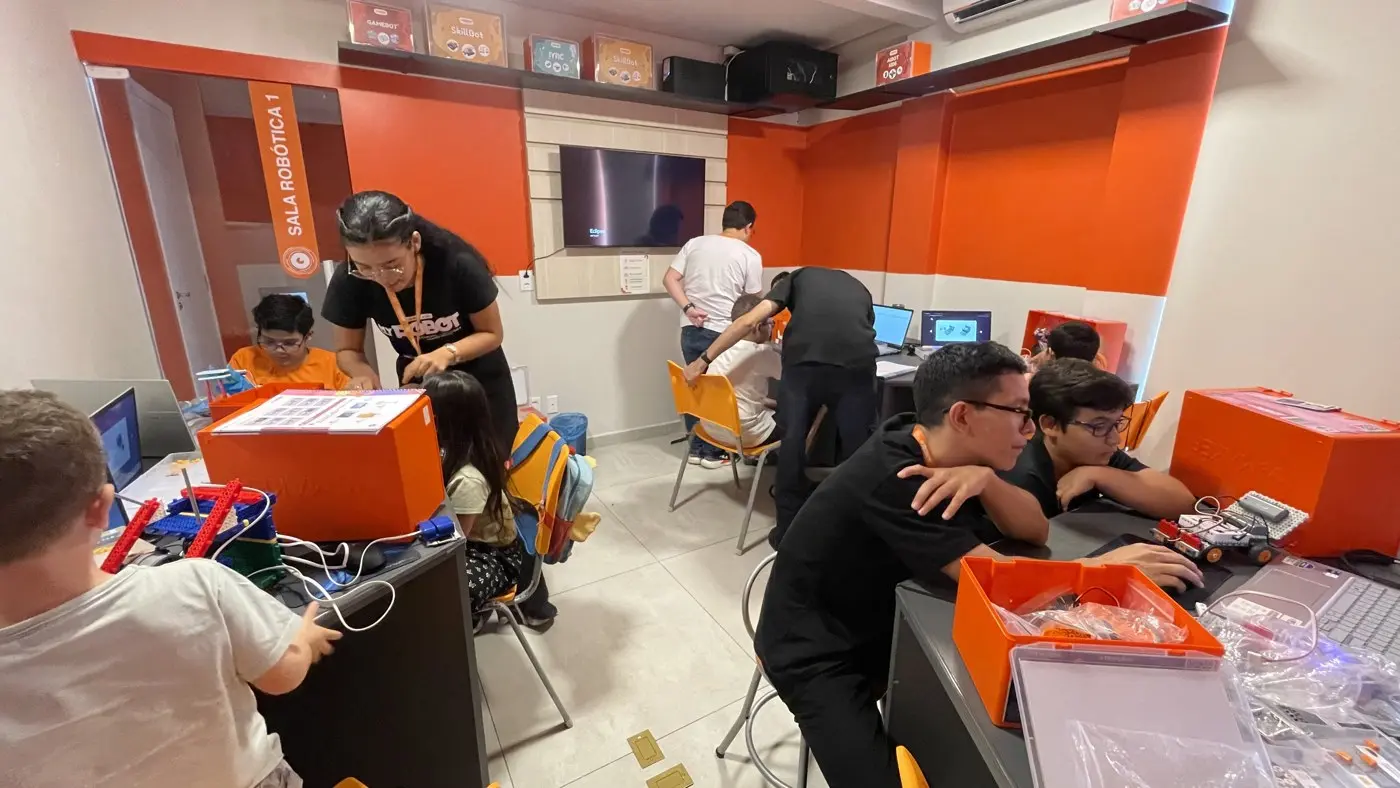
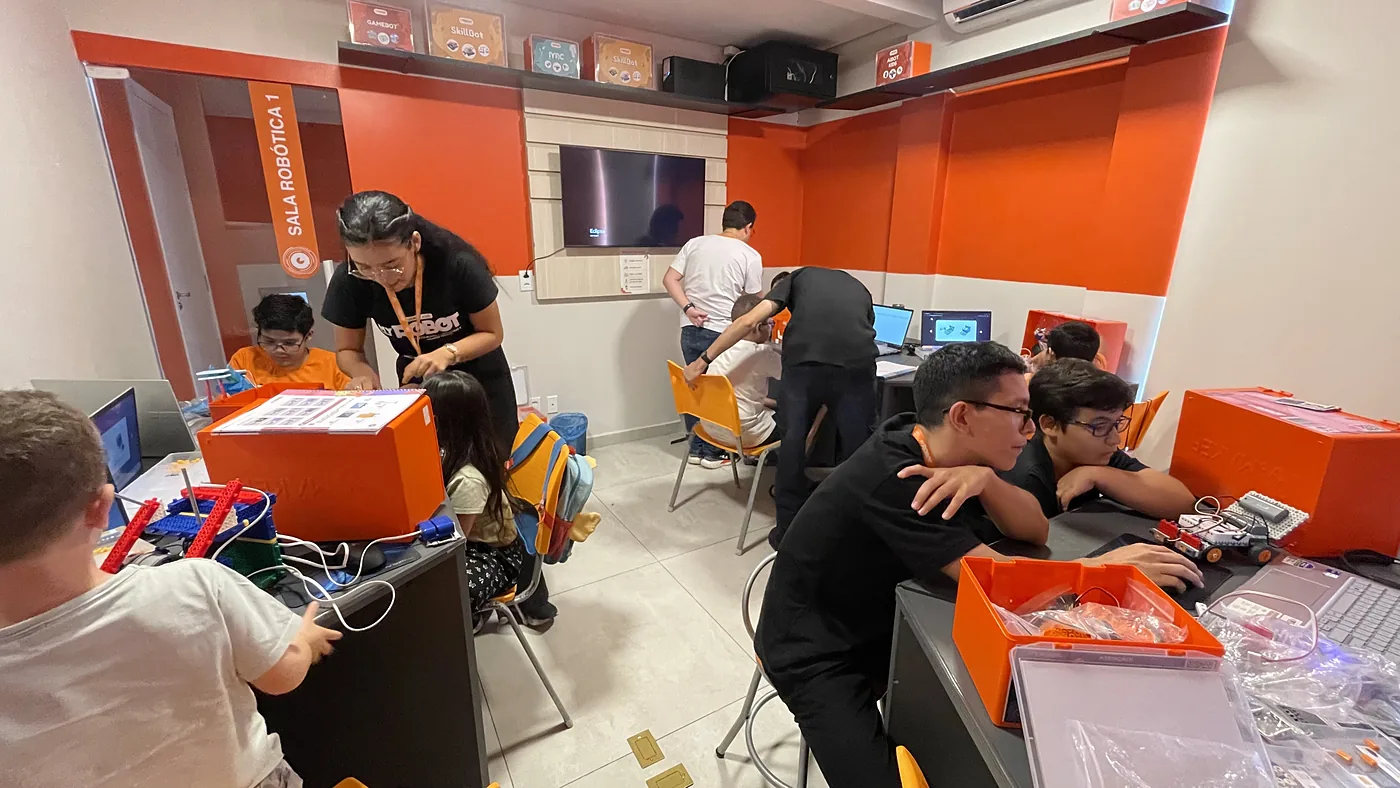
BF: fotos da galeria re-exportadas dos originais em alta resolução (srcset 1x/2x) (#27)
Claude-Session: https://claude.ai/code/session_01TjswJxo8KnA18Yvp363SCs

diff --git a/myrobot-vercel/blackfriday.html b/myrobot-vercel/blackfriday.html
@@ -498,11 +498,11 @@ body{overscroll-behavior-x:none;touch-action:pan-y pinch-zoom}
       <div><i>03</i><b>Atenção de perto</b><span>Turmas pequenas, com instrutores acompanhando cada criança.</span></div>
     </div>
     <div class="galeria">
-      <figure class="g-wide"><img src="/assets/bf/sala.webp" alt="Sala de robótica da My Robot Manaus com alunos e instrutores durante a aula" width="1400" height="788" loading="lazy"><figcaption>Sala de robótica · Manaus</figcaption></figure>
+      <figure class="g-wide"><img src="/assets/bf/sala.webp" srcset="/assets/bf/sala.webp 1400w, /assets/bf/sala@2x.webp 2800w" sizes="(min-width:760px) 1100px, 92vw" alt="Sala de robótica da My Robot Manaus com alunos e instrutores durante a aula" width="1400" height="788" loading="lazy"><figcaption>Sala de robótica · Manaus</figcaption></figure>
       <div class="g-row">
-        <figure><img src="/assets/bf/f1.webp" alt="Aluna montando um robô com engrenagens" width="760" height="1013" loading="lazy"></figure>
-        <figure><img src="/assets/bf/f2.webp" alt="Aluno programando o robô no notebook" width="760" height="1013" loading="lazy"></figure>
-        <figure><img src="/assets/bf/f3.webp" alt="Alunos escolhendo as peças do kit de robótica" width="760" height="1013" loading="lazy"></figure>
+        <figure><img src="/assets/bf/f1.webp" srcset="/assets/bf/f1.webp 760w, /assets/bf/f1@2x.webp 1700w" sizes="(min-width:760px) 360px, 30vw" alt="Aluna montando um robô com engrenagens" width="760" height="1013" loading="lazy"></figure>
+        <figure><img src="/assets/bf/f2.webp" srcset="/assets/bf/f2.webp 760w, /assets/bf/f2@2x.webp 1700w" sizes="(min-width:760px) 360px, 30vw" alt="Aluno programando o robô no notebook" width="760" height="1013" loading="lazy"></figure>
+        <figure><img src="/assets/bf/f3.webp" srcset="/assets/bf/f3.webp 760w, /assets/bf/f3@2x.webp 1700w" sizes="(min-width:760px) 360px, 30vw" alt="Alunos escolhendo as peças do kit de robótica" width="760" height="1013" loading="lazy"></figure>
       </div>
       <figure class="g-wide"><img src="/assets/bf/fachada.webp" alt="Fachada da My Robot School, com letreiro laranja e porta de vidro" width="1400" height="788" loading="lazy"><figcaption>Fachada My Robot School</figcaption></figure>
     </div>
